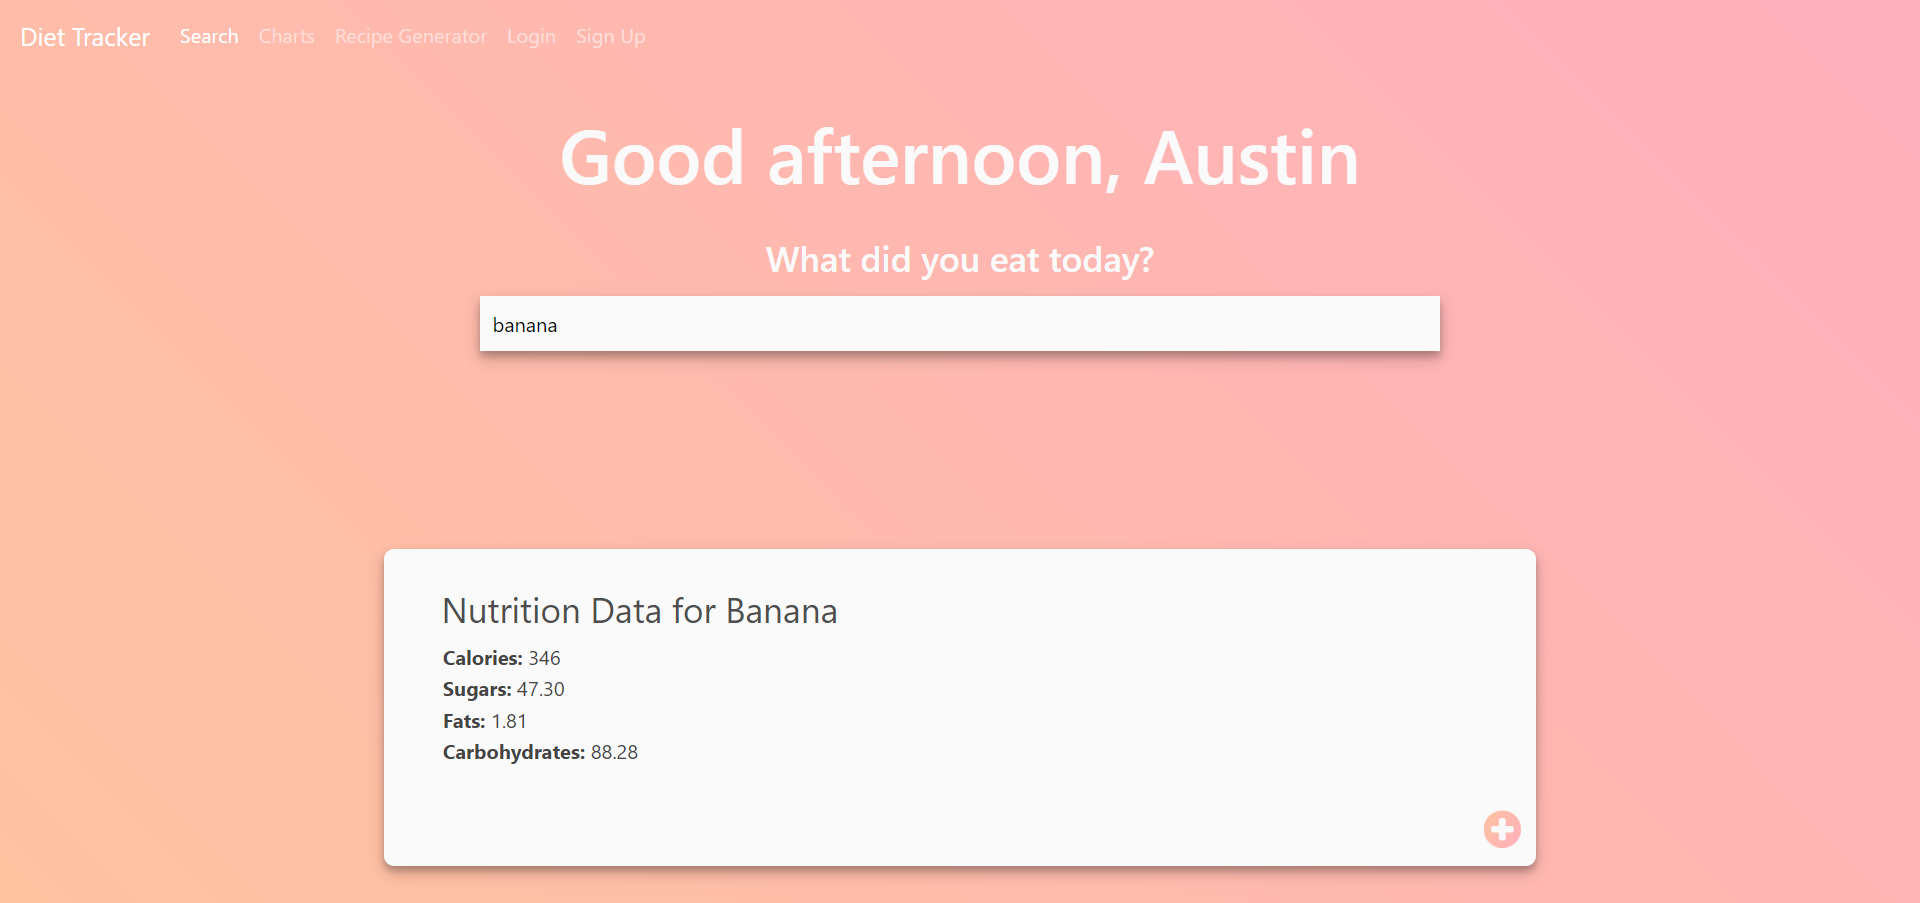
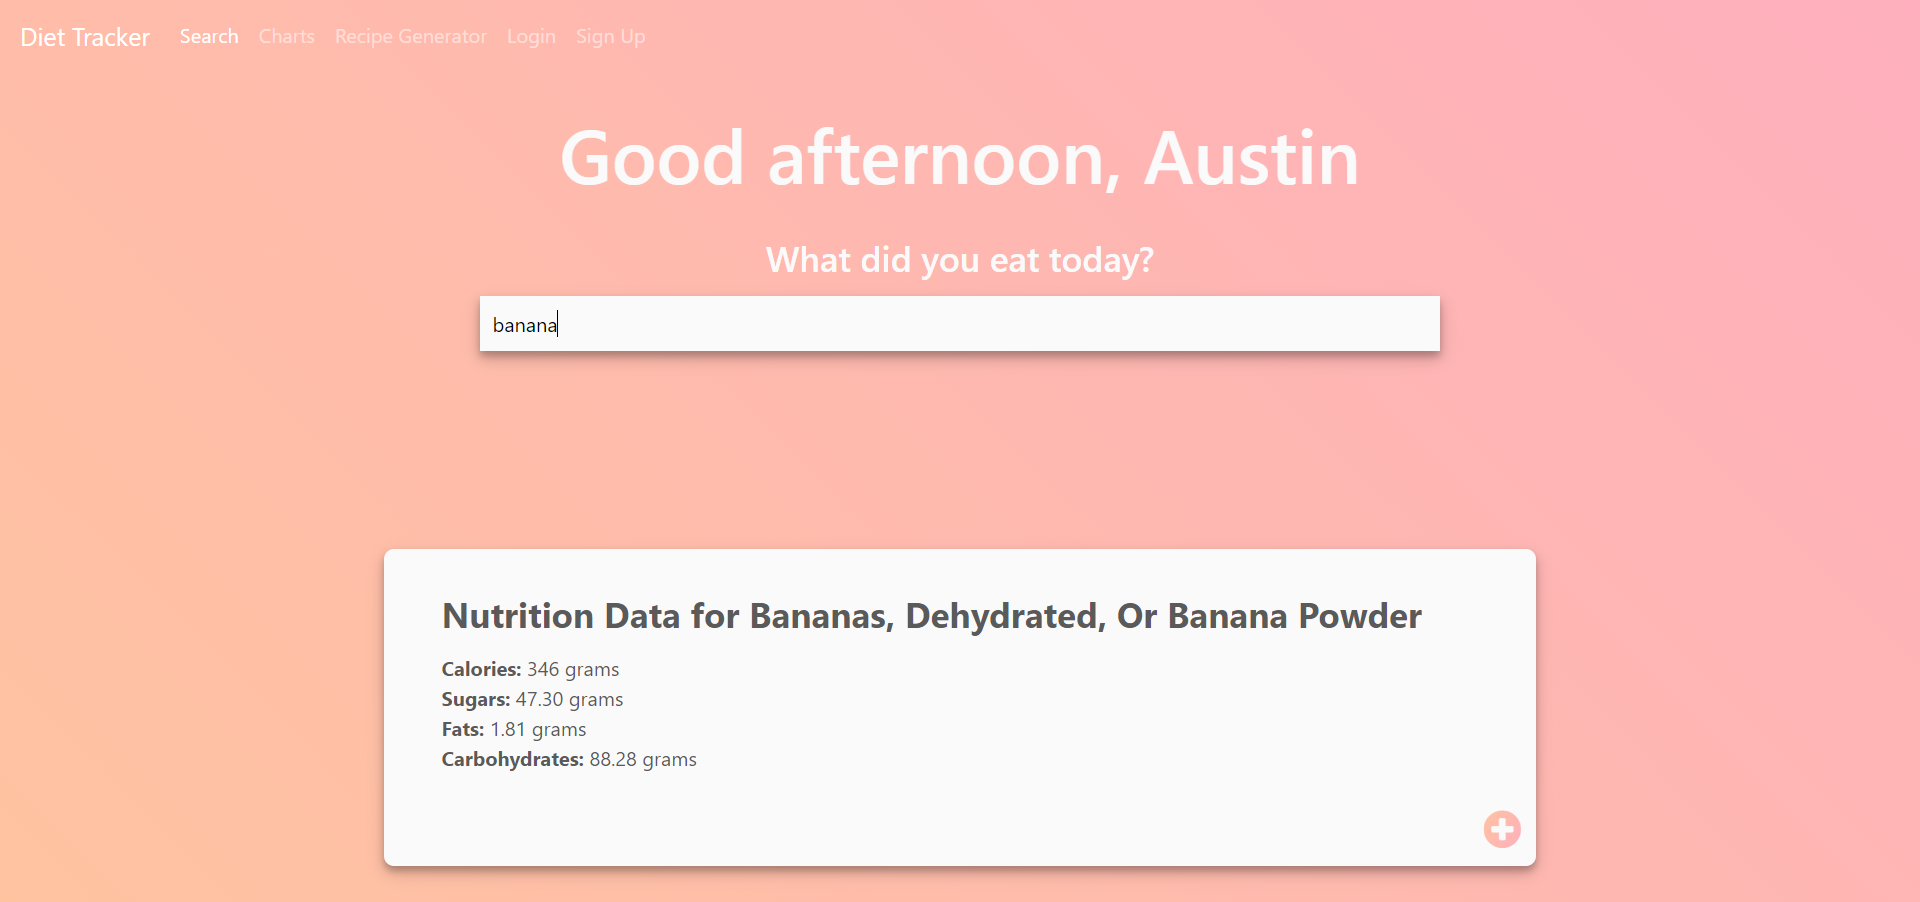
Search bar styling fix

Changed region(s): [[0.2188, 0.6519, 0.75, 0.8692], [0.25, 0.3415, 0.2812, 0.3725]]

diff --git a/js/fetchData.js b/js/fetchData.js
@@ -20,10 +20,10 @@ function searchItem(searchTerm) {
     console.log("Database entry: " + selectedItem.name);
     var nutritionQuery = `https://api.nal.usda.gov/ndb/nutrients/?format=json&api_key=${databasekey}${ntCategories}&ndbno=${selectedItem.ndbno}`;
     $.get(nutritionQuery, function(data) {
-      $(foodName).text("Nutrition Data for " + formatTitle(selectedItem.name));
+      $(foodName).html("<b>Nutrition Data for " + formatTitle(selectedItem.name) + "<b>");
       data.report.foods[0].nutrients.forEach((e) => {
         console.log(valToHTML[e.nutrient][0] + ": " + e.value);
-        $(valToHTML[e.nutrient][0]).html("<b>" + valToHTML[e.nutrient][1] + ": </b>" + e.value);
+        $(valToHTML[e.nutrient][0]).html("<b>" + valToHTML[e.nutrient][1] + ": </b>" + e.value + " grams");
       })
     })
   })

diff --git a/css/search.css b/css/search.css
@@ -103,15 +103,16 @@ input[type=submit] {
 }
 
 .paperTextHeader {
-  margin-top: 10px;
-  margin: 0;
+  margin-top: 4px;
+  margin-bottom: 15px;
   font-weight: 350;
-  color: #4e4e4e;
+  color: #5a5a5a;
 }
 
 .paperText {
-  margin: 1px;
-  color: #444444;
+  margin: 0px;
+  color: #5a5a5a;
+  font-size: 16px;
 }
 
 #addFood {
